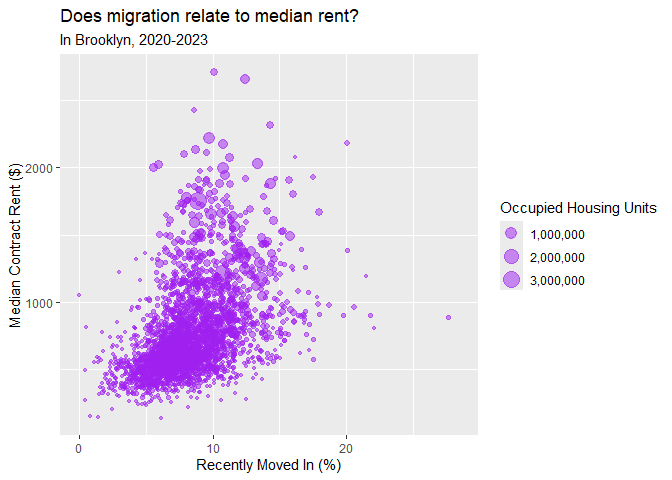
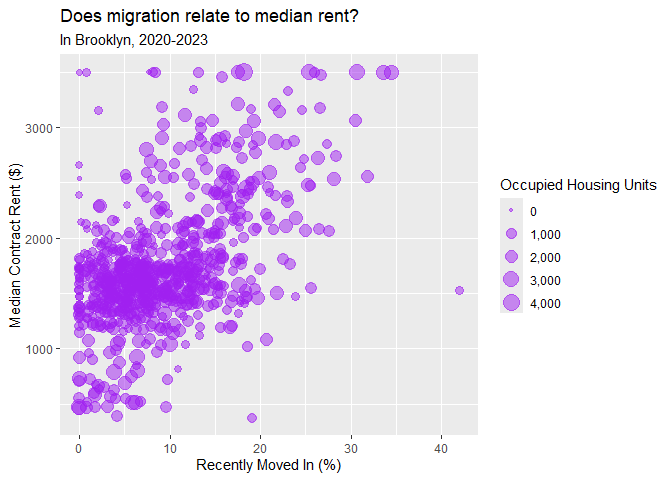
workshop on census api

diff --git a/visualize-social-patterns-census-api.md b/visualize-social-patterns-census-api.md
@@ -406,11 +406,11 @@ pressing housing affordability problem.
 # histogram of rent
 ggplot(data = data, aes(x = MedianConRent)) +  
   geom_histogram(binwidth = 50, fill = "red",color = "gray50") + 
-  geom_vline(aes(xintercept = 1742),   ## adding a line to show Brooklyn rent
+  geom_vline(aes(xintercept = 1657),   ## adding a line to show Brooklyn rent
              color = "blue",
              linetype = "dashed",
              size = .75) +
-  geom_text(aes(x = 1950,     ## and labeling the line
+  geom_text(aes(x = 1900,     ## and labeling the line
                 label = "Brooklyn", 
                 y = 300), 
             color = "blue", 
@@ -431,7 +431,7 @@ ggplot(data = data, aes(x = MedianConRent)) +
     ## Call `lifecycle::last_lifecycle_warnings()` to see where this warning was
     ## generated.
 
-    ## Warning in geom_text(aes(x = 1950, label = "Brooklyn", y = 300), color = "blue", : All aesthetics have length 1, but the data has 3222 rows.
+    ## Warning in geom_text(aes(x = 1900, label = "Brooklyn", y = 300), color = "blue", : All aesthetics have length 1, but the data has 3222 rows.
     ## ℹ Please consider using `annotate()` or provide this layer with data containing
     ##   a single row.
 
@@ -585,7 +585,7 @@ ggplot(data = data_NYC,   # define the data space
 
 ``` r
 # create a scatterplot for recent movers
-ggplot(data = data,   # define the data space
+ggplot(data = data_NYC,   # define the data space
        aes(x = NewComers_pct,  # x variable
            y = MedianConRent, # y variable
            size = OccupiedHouseUnits_sum)) +  
@@ -601,7 +601,7 @@ ggplot(data = data,   # define the data space
   )
 ```
 
-    ## Warning: Removed 15 rows containing missing values or values outside the scale range
+    ## Warning: Removed 35 rows containing missing values or values outside the scale range
     ## (`geom_point()`).
 
 ![](visualize-social-patterns-census-api_files/figure-gfm/unnamed-chunk-18-1.png)<!-- -->
